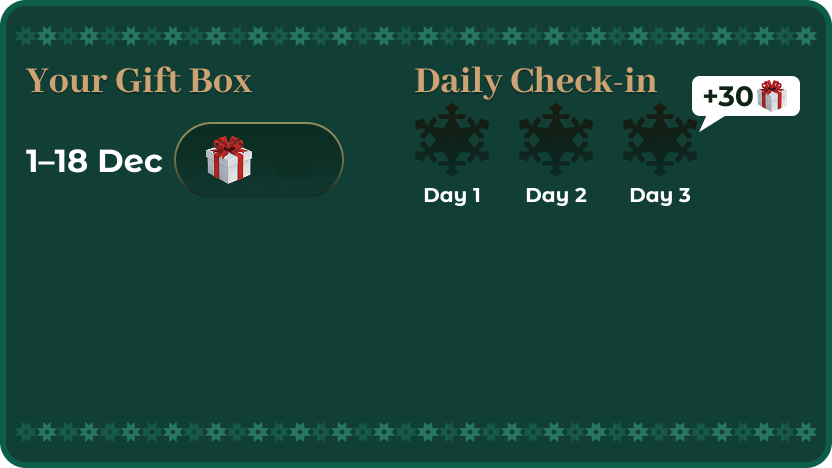
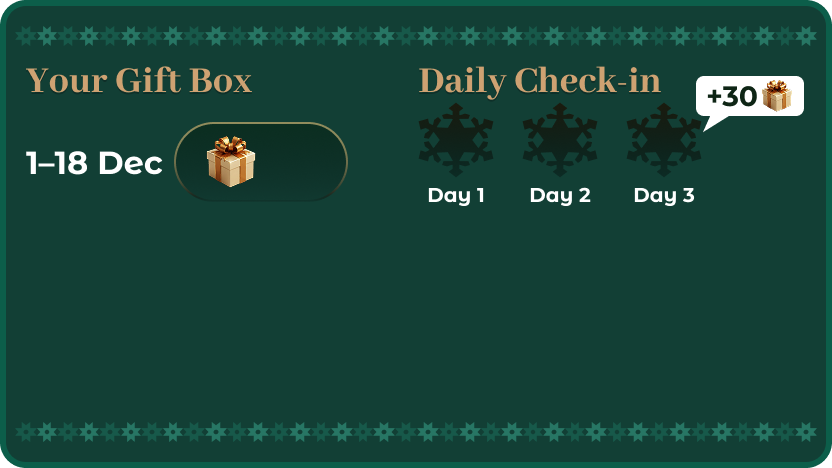
Count gift boxes from falling matches and center a smaller prize popup.

diff --git a/src/components/pages/game/Board.tsx b/src/components/pages/game/Board.tsx
@@ -35,8 +35,13 @@ const Board: React.FC<BoardProps> = ({
   const [isFreezing, setIsFreezing] = useState(true);
   const cellRefs = useRef<{ [key: string]: HTMLDivElement }>({});
   const initialClear = useRef(true);
+  const boardRef = useRef<Item[][]>([]);
 
   const audioOnRef = useRef(audioOn);
+
+  useEffect(() => {
+    boardRef.current = board;
+  }, [board]);
 
   useEffect(() => {
     audioOnRef.current = audioOn;
@@ -240,7 +245,7 @@ const Board: React.FC<BoardProps> = ({
     return virtualBoard;
   };
 
-  const findMatches = (boardToCheck: Item[][] = board) => {
+  const findMatches = (boardToCheck: Item[][] = boardRef.current) => {
     const matches: { row: number; col: number }[] = [];
 
     // Check rows for matches
@@ -284,22 +289,25 @@ const Board: React.FC<BoardProps> = ({
     return uniqueMatches;
   };
 
-  const handleMatches = (matches: { row: number; col: number }[]) => {
+  const handleMatches = (
+    matches: { row: number; col: number }[],
+    sourceBoard: Item[][] = boardRef.current
+  ) => {
     if (matches.length > 0) {
       if (audioOnRef.current) {
         matchSound.play();
       }
     }
 
-    const newBoard = [...board];
+    const newBoard = sourceBoard.map((row) => row.map((item) => ({ ...item })));
 
-    // Count cleared gift boxes
+    // Count cleared gift boxes, including matches made by falling pieces.
     let specialItemCount = 0;
 
     // Mark matched items
     matches.forEach(({ row, col }) => {
       newBoard[row][col] = { ...newBoard[row][col], isMatched: true };
-      if (board[row][col].type === specialItemType) {
+      if (sourceBoard[row][col].type === specialItemType) {
         specialItemCount++;
       }
     });
@@ -309,12 +317,13 @@ const Board: React.FC<BoardProps> = ({
       onSpecialItemMatch(specialItemCount);
     }
 
+    boardRef.current = newBoard;
     setBoard(newBoard);
     onMatch(matches.length);
 
     // Replace matched items after a delay
     setTimeout(() => {
-      replaceMatches(matches);
+      replaceMatches(matches, newBoard);
     }, 350);
 
     // Hide matched cells by setting their opacity to 0
@@ -338,8 +347,11 @@ const Board: React.FC<BoardProps> = ({
     return fallbackHeight;
   };
 
-  const replaceMatches = async (matches: { row: number; col: number }[]) => {
-    const newBoard = [...board];
+  const replaceMatches = async (
+    matches: { row: number; col: number }[],
+    sourceBoard: Item[][] = boardRef.current
+  ) => {
+    const newBoard = sourceBoard.map((row) => row.map((item) => ({ ...item })));
 
     // const dropEase = "bounce.out"; // Original GSAP bounce
     const dropEase = "power3.out";
@@ -514,6 +526,7 @@ const Board: React.FC<BoardProps> = ({
       }
     }
 
+    boardRef.current = newBoard;
     setBoard(newBoard);
 
     await new Promise((resolve) => setTimeout(resolve, 50));
@@ -670,11 +683,11 @@ const Board: React.FC<BoardProps> = ({
       placeholder.remove();
     });
 
-    // Check for additional matches after replacements
+    // Falling pieces can line up a match without another move. Score those too.
     setTimeout(() => {
-      const matches = findMatches();
-      if (matches.length > 0) {
-        handleMatches(matches);
+      const chainMatches = findMatches(newBoard);
+      if (chainMatches.length > 0) {
+        handleMatches(chainMatches, newBoard);
       }
     }, 32);
   };
@@ -801,10 +814,13 @@ const Board: React.FC<BoardProps> = ({
             // Check if the swap resulted in a match using pre-calculated results
             if (potentialMatches.length > 0) {
               // Only update the board state if the swap is valid
-              const newBoard = [...board];
+              const newBoard = boardRef.current.map((row) =>
+                row.map((item) => ({ ...item }))
+              );
               const tempType = newBoard[row1][col1].type;
               newBoard[row1][col1].type = newBoard[row2][col2].type;
               newBoard[row2][col2].type = tempType;
+              boardRef.current = newBoard;
               setBoard(newBoard);
 
               // Delay showing the original cells to prevent flickering
@@ -819,7 +835,7 @@ const Board: React.FC<BoardProps> = ({
 
                 // Additional delay before handling matches to ensure smooth transition
                 setTimeout(() => {
-                  handleMatches(potentialMatches);
+                  handleMatches(potentialMatches, newBoard);
                 }, 50);
               }, 32);
             }

diff --git a/src/components/pages/game/Game.tsx b/src/components/pages/game/Game.tsx
@@ -26,6 +26,7 @@ const scoreValueFont = Montserrat_Alternates({
   weight: "700",
   subsets: ["latin"],
   display: "swap",
+  variable: "--font-montserrat-alternates",
 });
 
 const topFlakes = "ababababadededededadededededededed";
@@ -504,16 +505,28 @@ const Game: React.FC<GameProps> = ({
     router.push("/leaderboard.jsp?req_d=my3");
   };
 
+  const shownGiftRef = useRef(tempSpecialItemPoint);
+  const lastGiftPropRef = useRef(tempSpecialItemPoint);
+  if (tempSpecialItemPoint !== lastGiftPropRef.current) {
+    lastGiftPropRef.current = tempSpecialItemPoint;
+    if (
+      tempSpecialItemPoint > shownGiftRef.current ||
+      tempSpecialItemPoint === 0
+    ) {
+      shownGiftRef.current = tempSpecialItemPoint;
+    }
+  }
+
   const handleSpecialItemMatch = (count: number) => {
-    if (gameState.isGameOver) return;
-    
-    console.log(`Special item matched ${count} times`);
+    if (count <= 0 || gameState.isGameOver) return;
+
     setGameState((prev: GameState) => ({
       ...prev,
       specialItemMatchNum: prev.specialItemMatchNum + count,
-      // timeLeft will be updated by the timer with bonus included
     }));
-    setTempSpecialItemPoint?.(tempSpecialItemPoint + count);
+    // A falling match can score again before React renders the last total.
+    shownGiftRef.current += count;
+    setTempSpecialItemPoint?.(shownGiftRef.current);
   };
 
   const onNextEndDialog = () => {
@@ -706,7 +719,9 @@ const Game: React.FC<GameProps> = ({
           />
 
           <div className={styles.gameGiftNumberContainer}>
-            <Typography className={styles.giftNumText}>
+            <Typography
+              className={`${styles.giftNumText} ${scoreValueFont.className} ${scoreValueFont.variable}`}
+            >
               {formatNumberWithCommas(tempSpecialItemPoint)}
             </Typography>
           </div>

diff --git a/src/components/pages/game/Game.module.scss b/src/components/pages/game/Game.module.scss
@@ -349,17 +349,16 @@
   .gameGiftNumberContainer {
     position: absolute;
     top: 50%;
-    left: 86%;
-    transform: translate(-50%, -50%);
+    left: calc(81.92% + clamp(0px, calc(8 / 390 * 100vw), calc(8 / 390 * 600px)));
+    transform: translateY(-50%);
     display: flex;
     align-items: center;
-    justify-content: center;
-    min-width: 1.4em;
-    background: #0d3027;
+    justify-content: flex-start;
 
     .giftNumText {
-      font-family: var(--font-allround-gothic), "Noto Sans TC", sans-serif !important;
-      font-weight: 500 !important;
+      font-family: var(--font-montserrat-alternates), sans-serif !important;
+      font-weight: 700 !important;
+      font-synthesis: none;
       font-size: clamp(
         0px,
         calc(16 / 390 * 100vw),

diff --git a/src/components/pages/landing/PrizeDetailsDialog.tsx b/src/components/pages/landing/PrizeDetailsDialog.tsx
@@ -74,10 +74,10 @@ const PrizeDetailsDialog: React.FC<PrizeDetailsDialogProps> = ({ open, onClose }
   };
 
   return (
-    <Dialog open={open} onClose={onClose} className={styles.root}>
+    <Dialog open={open} onClose={onClose} className={`${styles.root} ${detailStyles.root}`}>
       <AppImage
         src={gameConfig.assets.ui.giftBoxIcon}
-        className={styles.titleImage}
+        className={detailStyles.titleImage}
         alt=""
       />
 

diff --git a/src/config/gameConfig.ts b/src/config/gameConfig.ts
@@ -201,7 +201,7 @@ export const gameConfig = {
       giftBoxIcon: `${basePath}/images/xmas-giftbox-2.png?v=goldgift`,
       endDialogTopGift: `${basePath}/images/xmas-giftbox-top.png?v=stars`,
 
-      gameBottomGiftNumBar: `${basePath}/images/game-gift-box-bar.png?v=goldgift`,
+      gameBottomGiftNumBar: `${basePath}/images/game-gift-box-bar.png?v=gap8`,
 
       endDialogGiftBoxBg: `${basePath}/images/end-dialog-gift-box-bg.png?v=frame`,
     },

diff --git a/src/components/pages/landing/PrizeDetailsDialog.module.scss b/src/components/pages/landing/PrizeDetailsDialog.module.scss
@@ -1,3 +1,20 @@
+.root:global(.MuiDialog-root) {
+  :global(.MuiDialog-container) {
+    align-items: center;
+    justify-content: center;
+  }
+
+  :global(.MuiPaper-root) {
+    justify-content: center;
+  }
+}
+
+.titleImage {
+  position: relative;
+  width: clamp(0px, calc(148 * 0.7 / 390 * 100vw), calc(148 * 0.7 / 390 * 600px));
+  margin-bottom: 0;
+}
+
 .scroller {
   position: relative;
   width: 100%;

diff --git a/src/components/pages/landing/Landing.module.scss b/src/components/pages/landing/Landing.module.scss
@@ -235,16 +235,14 @@
 
 .liveCount {
   position: absolute;
-  left: 31.5%;
-  top: 30.8%;
-  width: 8.4%;
-  height: 6.8%;
-  display: flex;
-  align-items: center;
-  justify-content: flex-end;
+  left: calc(30.53% + 8px);
+  top: 33.1%;
+  transform: translateY(-50%);
   color: #fff;
   font-size: 13px;
+  font-weight: 700;
   line-height: 1;
+  white-space: nowrap;
   pointer-events: none;
 }
 
